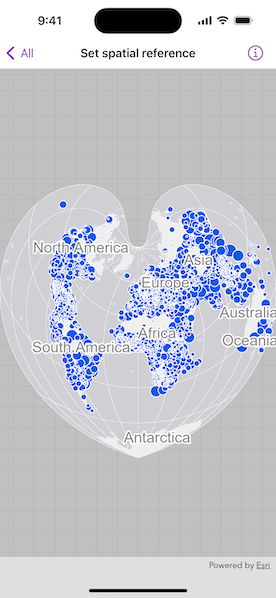
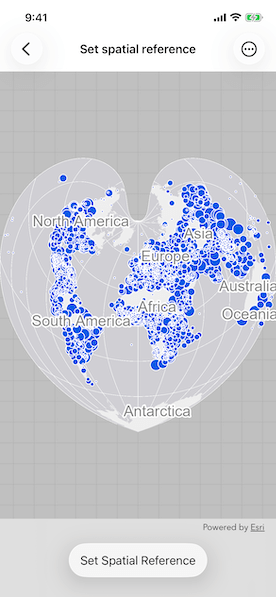
Update docs.

diff --git a/Shared/Samples/Set spatial reference/README.md b/Shared/Samples/Set spatial reference/README.md
@@ -6,20 +6,21 @@ Specify a map's spatial reference.
 
 ## Use case
 
-Choosing the correct spatial reference is important for ensuring accurate projection of data points to a map.  
+Choosing the correct spatial reference is important for ensuring accurate projection of data points to a map.
 
 ## How to use the sample
 
-Pan and zoom around the map. Observe how the map is displayed using the World Bonne spatial reference.
+Pan and zoom around the map. Observe how the map is displayed in World Bonne spatial reference. Pick a different spatial reference and see the map reproject.
 
 ## How it works
 
-1. Instantiate a `Map` object using a spatial reference e.g. `Map(spatialReference: SpatialReference(wkid: WKID(54024))`.
+1. Instantiate a `Map` object using a spatial reference.
 2. Instantiate a `Basemap` object using an `ArcGISMapImageLayer` object.
 3. Set the basemap to the map.
 4. Set the map to a `MapView` object.
+5. Change the map's spatial reference using `setSpatialReference` method.
 
-The ArcGIS map image layer will now use the spatial reference set to the map (World Bonne (WKID: 54024)) and not its default spatial reference.
+The ArcGIS map image layer will reproject into the spatial reference set to the map (such as World Bonne (WKID: 54024)), and not the map service's default spatial reference.
 
 ## Relevant API
 
@@ -29,10 +30,20 @@ The ArcGIS map image layer will now use the spatial reference set to the map (Wo
 * MapView
 * SpatialReference
 
+## About the data
+
+This sample uses a [World Cities Population](https://sampleserver6.arcgisonline.com/arcgis/rest/services/SampleWorldCities/MapServer) map service that displays world cities symbolized based on population.
+
 ## Additional information
 
-Operational layers will automatically project to this spatial reference when possible.
+Operational layers will automatically project to this spatial reference when possible. There are 3 kinds of layer reprojection behaviors:
+
+- Reprojected on device (on-the-fly reprojection), such as a `FeatureLayer` created from a mobile geodatabase
+- Reprojected from the service, such as an `ArcGISMapImageLayer`
+- Not able to reproject, such as an `ArcGISTiledLayer` with defined spatial reference in its tile cache. These layer might be able to reproject in a future update
+
+For more information, check out the API reference doc for `setSpatialReference` method.
 
 ## Tags
 
-project, WKID
+coordinate system, project, projection, spatial reference, Web Mercator, WGS84, WKID
